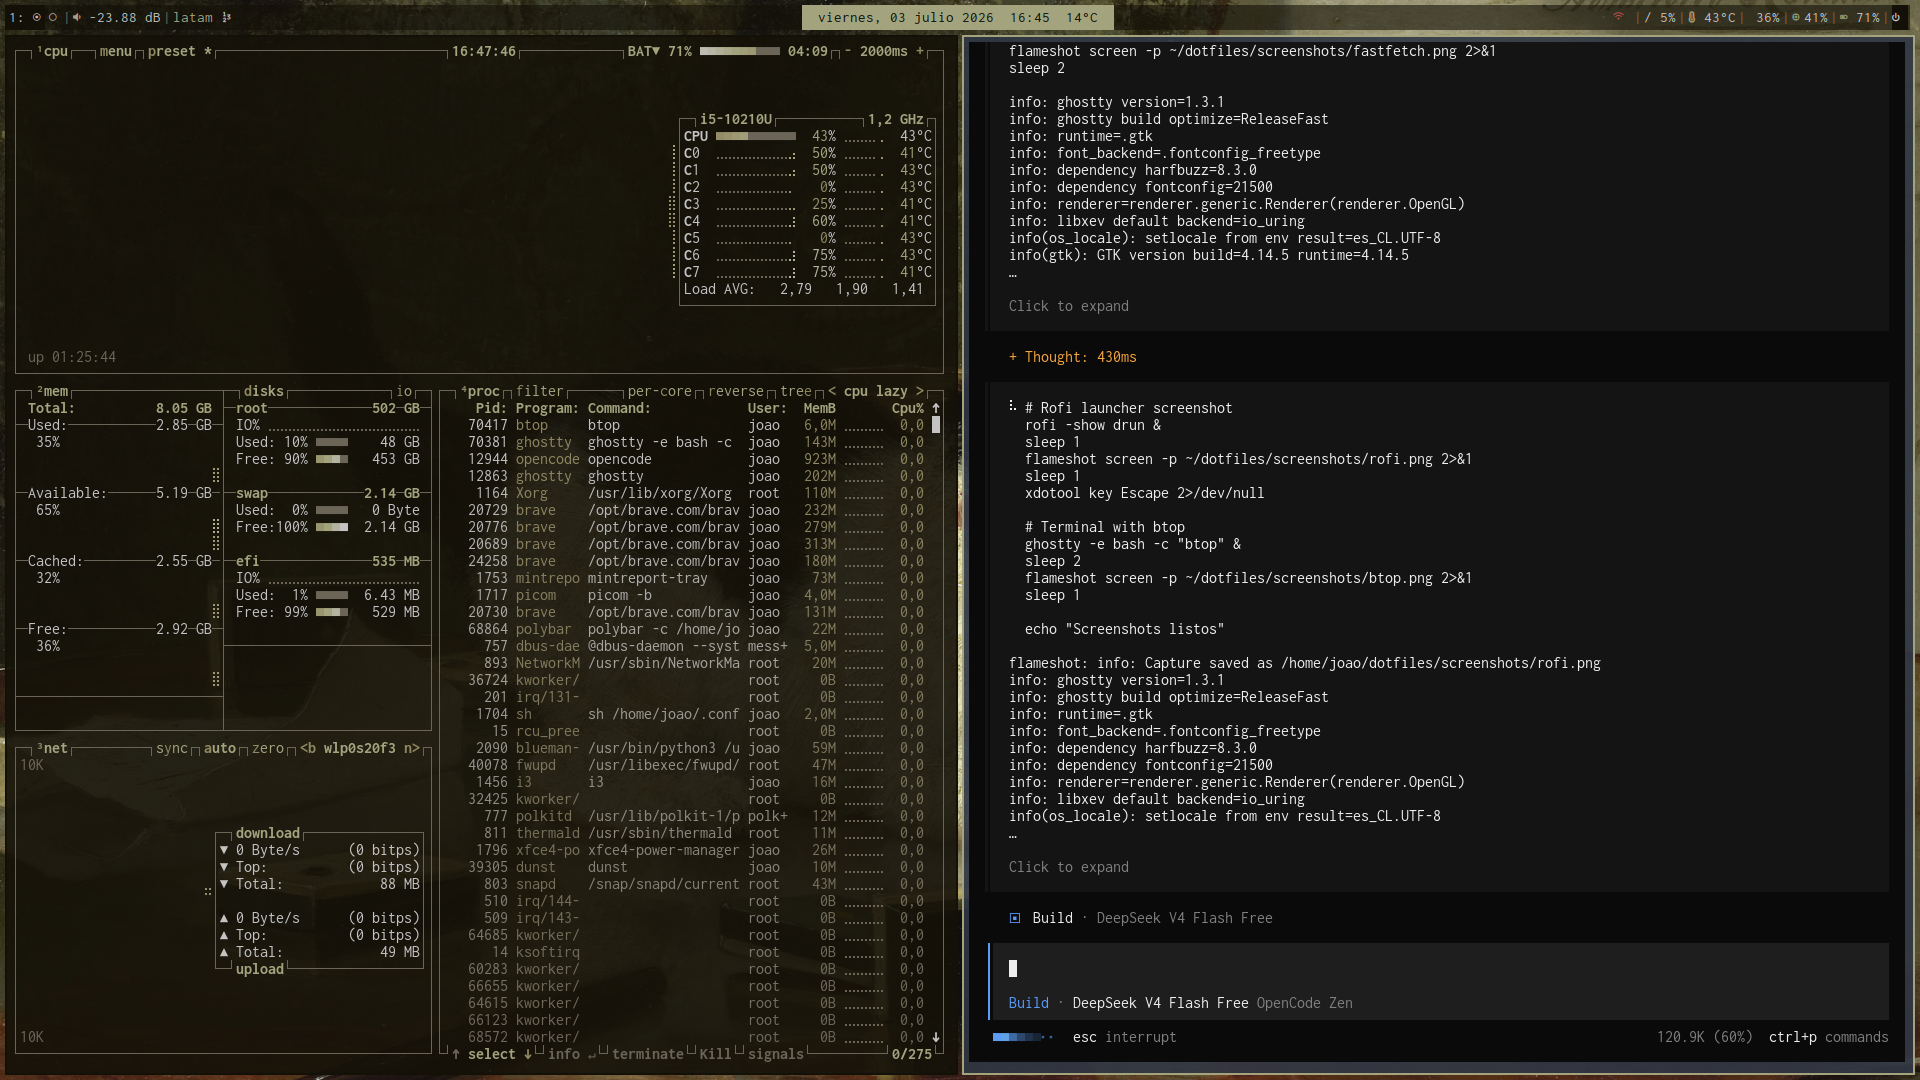
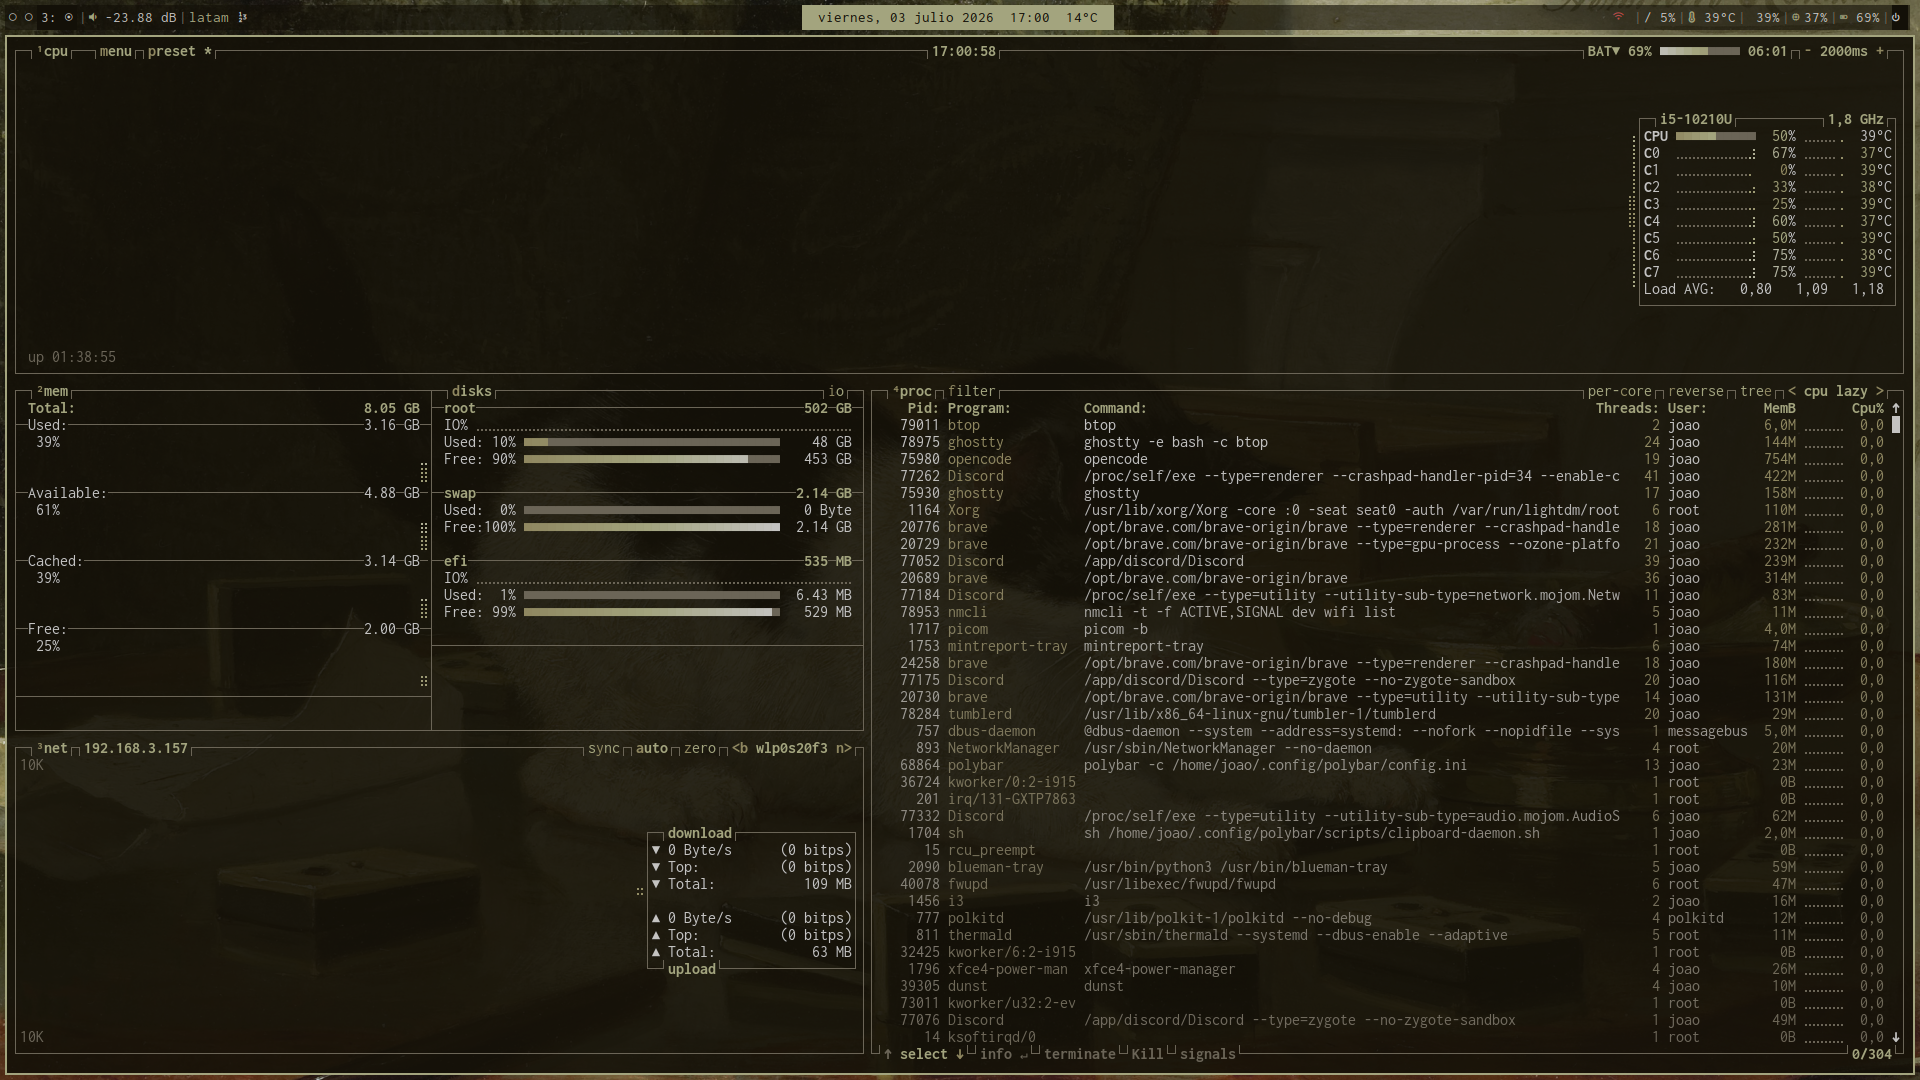
Update screenshots: rofi and btop

diff --git a/README.md b/README.md
@@ -15,17 +15,11 @@ Personal dotfiles for **Linux Mint** with **i3** window manager, themed with a c
 
 ## Screenshots
 
-![Desktop](screenshots/desktop.png)
-*Main desktop with i3, polybar, and Nord wallpaper*
-
 ![Rofi Launcher](screenshots/rofi.png)
-*Rofi application launcher*
-
-![Fastfetch](screenshots/fastfetch.png)
-*System info with dynamic terminal colors*
+*Rofi application launcher with Nord theme*
 
 ![Btop](screenshots/btop.png)
-*System monitor with pywal theme*
+*System monitor with dynamic pywal theme*
 
 ## Dependencies
 